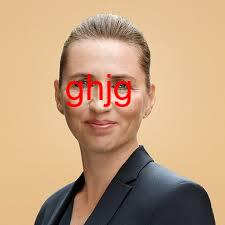
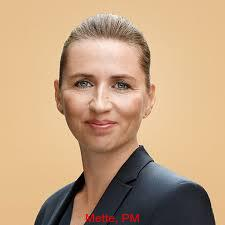
handled Nullble character

Changed region(s): [[0.28, 0.3111, 0.5911, 0.4978], [0.3733, 0.9333, 0.6222, 0.9956]]

diff --git a/MemeMachine/Program.cs b/MemeMachine/Program.cs
@@ -25,34 +25,34 @@ namespace MemeMachine
 
             Console.Write("Enter text: ");
             string text = Console.ReadLine();
-            Console.WriteLine("You entered: "+text);
-            
-            using (MagickImage image = new MagickImage(imageFileFullPath))
-            {
-                var settings = new Drawables()
-                                    .Font("Arial")
-                                    .FontPointSize(36)
-                                    .FillColor(MagickColors.Red)
-                                    .TextAlignment(TextAlignment.Center); 
-                                settings.Text(100, 100, text); 
-                                image.Draw(settings);
-                                image.Write(@"C:\Users\engrs\Desktop\ProCsharp\ImageMagick\MemeMachine\assets\mette_output.jpg");
+            if (string.IsNullOrWhiteSpace(text)) 
+            { 
+                Console.WriteLine("No text entered."); 
+            }
+            else { 
+
+                using (MagickImage image = new MagickImage(imageFileFullPath))
+                {
+                    /*
+                    var settings = new Drawables()
+                                        .Font("Arial")
+                                        .FontPointSize(36)
+                                        .FillColor(MagickColors.Red)
+                                        .TextAlignment(TextAlignment.Center); 
+                                    settings.Text(100, 100, text); 
+                                    image.Draw(settings);
+                                    image.Write(@"C:\Users\engrs\Desktop\ProCsharp\ImageMagick\MemeMachine\assets\mette_output.jpg");
+                    */
+                    image.Settings.Font = "Arial";
+                    image.Settings.BackgroundColor = MagickColors.Transparent;
+                    image.Settings.FillColor = MagickColors.Red;
+
+                    image.Annotate(text, Gravity.South);
+                    image.Write(@"C:\Users\engrs\Desktop\ProCsharp\ImageMagick\MemeMachine\assets\mette_output.jpg");
+                }
             }
             Console.WriteLine("Enter any key to exit the program...");
             Console.ReadKey();
         }
     }
 }
-/*
-image.BackgroundColor = MagickColors.Gray;
-var drawables = new Drawables()
-    .Font("Impact")
-    .FontPointSize(48)
-    .FillColor(MagickColors.Red)
-    .StrokeColor(MagickColors.Black)
-    .StrokeWidth(2)
-    .Gravity(Gravity.South)
-    .Text(0, -30, text);
-
-drawables.Draw(image);
-*/
